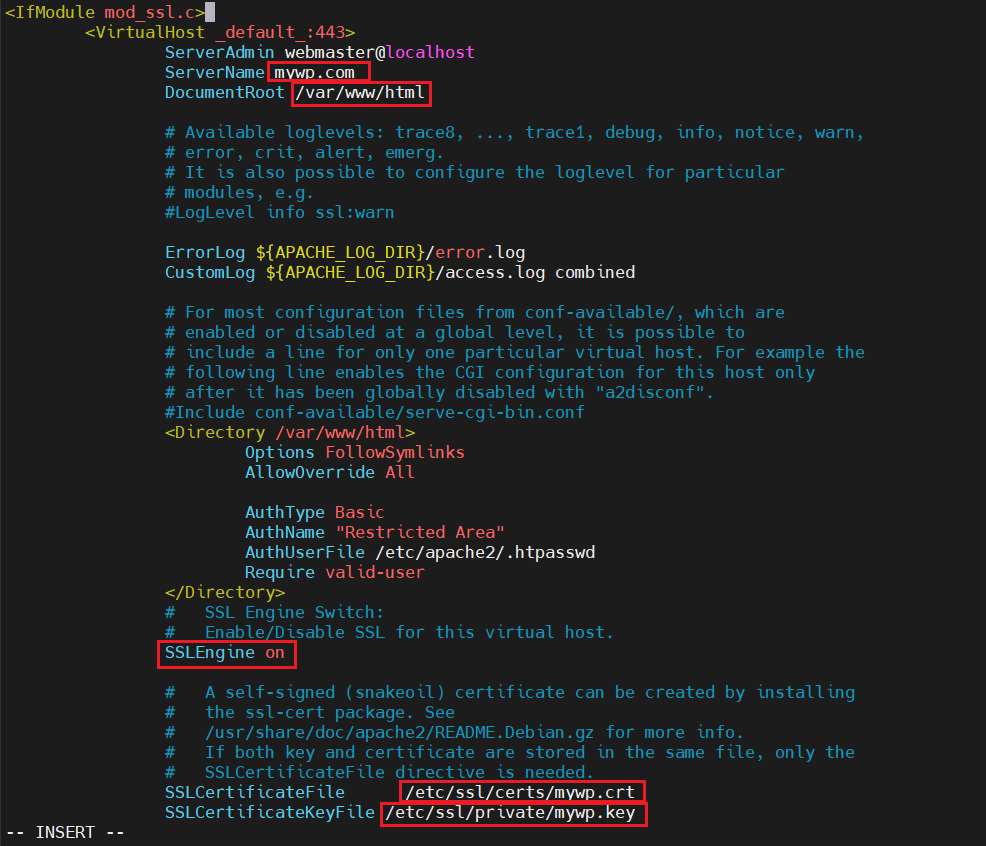
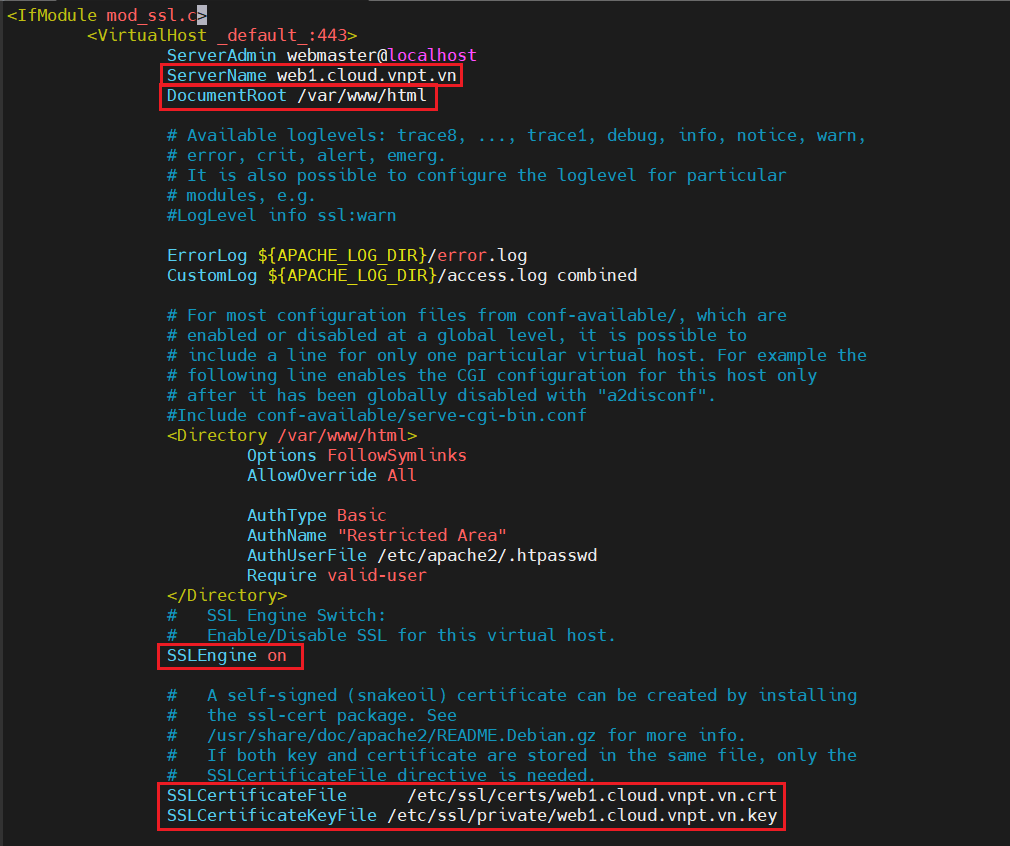
add domain self signed

Changed region(s): [[0.0, 0.0, 0.8824, 0.9835], [0.0304, 0.9527, 0.0913, 1.0]]

diff --git a/LuongVN/WORDPRESS/Config Self Signed Trusted WP/6.Self_Signed_Trusted_On_Ubuntu.md b/LuongVN/WORDPRESS/Config Self Signed Trusted WP/6.Self_Signed_Trusted_On_Ubuntu.md
@@ -1,14 +1,25 @@
-# Cấu Hình Self-Signed WordPress Ubuntu
-## 1. Tạo Self-Signed Certificate
+# Cấu Hình Domain Self-Signed WordPress Ubuntu
 
-  ```bash
-  openssl req -x509 -nodes -newkey rsa:2048 \
-  -keyout /etc/ssl/private/mywp.key \
-  -out /etc/ssl/certs/mywp.crt \
-  -days 365 \
-  -subj "/CN=mywp.com" \
-  -addext "subjectAltName=DNS:mywp.com"
-  ```
+## Yêu cầu
+- Ta truy cập được vào trang WP với đường dẫn: `https://web1.cloud.vnpt.vn` mà không hiện `not secure`
+- Không dùng địa chỉ IP
+
+## Thực hiện
+
+### 1. Tạo Self-Signed Certificate
+
+Ta dùng câu lệnh sau đây để gen cert cho trang WP: 
+
+```bash
+openssl req -x509 -nodes -newkey rsa:2048 \
+-keyout /etc/ssl/private/web1.cloud.vnpt.vn.key \
+-out /etc/ssl/certs/web1.cloud.vnpt.vn.crt \
+-days 365 \
+-subj "/CN=web1.cloud.vnpt.vn" \
+-addext "subjectAltName=DNS:web1.cloud.vnpt.vn"
+```
+
+Giải thích các trường:
 
   - `-x509`: tạo chứng chỉ X.509 (thường dùng cho SSL/TLS).
 
@@ -20,29 +31,72 @@
 
   - `-keyout` và `-out`: đường dẫn lưu key và certificate.
 
-  - `/CN=bimmie.com`: Common Name = tên domain của bạn.
-  - `-addext "subjectAltName=DNS:mywp.com,IP:192.168.70.101"`: SAN của cert này: 
-    - DNS: `mywp.com`
+  - `/CN=mywp.com`: Common Name = tên domain của bạn.
+  - `-addext "subjectAltName=DNS:mywp.com"`: SAN của cert này: 
 
-## 2. Import Certificate vào hệ thống 
+**Một số lưu ý**:
+- `domain` khi ta truy cập phải khới với `Common Name` khi ta tạo cert
+- Khi gen cert ta bắt buộc phải có SAN, lý do là từ năm 2017 tất cả browser hiện đại(Chrome, Firefox, Edge, Safari) đã không còn dùng CN để kiểm tra hostname của certificate, bắt buộc phải kiểm tra SAN. Điều này nằm trong chuẩn: `RFC 2018`
+- Khi ta thêm SAN, ví dụ: `-addext "subjectAltName=DNS:web1.cloud.vnpt.vn"`, lúc này cert chứa `SAN = DNS:web1.cloud.vnpt.vn (cái browser thực sự dùng)` Browser kiểm tra SAN:
+
+  ```bash
+  Hostname: web1.cloud.vnpt.vn
+  SAN list: DNS:web1.cloud.vnpt.vn
+  ```
+
+  -> MATCH -> Browser Trust
+
+### 2. Import Certificate vào hệ thống 
 
 ```bash
 cp /etc/ssl/certs/mywp.crt /usr/local/share/ca-certificates/
 sudo update-ca-certificates
 ```
 
-- Copy certificate vào thư mục CA của Ubuntu.
+Copy certificate vào thư mục CA của Ubuntu.
 
-- `update-ca-certificates` sẽ thêm certificate vào trusted store của hệ thống.
+`update-ca-certificates` sẽ thêm certificate vào trusted store của hệ thống.
 
-- Sau bước này, các trình duyệt trên hệ thống (hoặc các tool như wget, curl) sẽ tin tưởng chứng chỉ này.
+Sau bước này, các trình duyệt trên hệ thống (hoặc các tool như wget, curl) sẽ tin tưởng chứng chỉ này.
 
-## 3. Cấu hình Apache
-- Vào file config ssl của trang WP của bạn(mặc định: `/etc/apache2/sites-available/default-ssl.conf`)
+### 3. Thêm domain vào `/etc/hosts`
+
+Ta sẽ thêm domain `web1.cloud.vnpt.vn` với IP là `192.168.70.101` để khi gõ `https://web1.cloud.vnpt.vn` máy sẽ truy cập server WordPress
+
+![alt text](../images/self_signed_10.png)
+
+### 4. Cấu hình Apache
+Vào file config ssl của trang WP của bạn(mặc định: `/etc/apache2/sites-available/default-ssl.conf`, hoặc trang mà bạn đã tạo riêng)
 
   ![alt text](../images/self_signed_01.png)
+
+Ta cần lưu ý cấu hình đúng với các trường được tô đỏ:
+- `ServerName`: phải đúng với tên domain
+- `DocumentRoot`: đúng với trang WordPress
+- `SSLEngine`: kích hoạt SSL
+- `SSLCertificateFile`: Đường dẫn đến file cert mà ta đã gen
+- `SSLCertificateKeyFile`: Đường dẫn đến file chứa key mà ta đã gen
   
-## 4. Bật module SSL & site SSL
+### 5. Chỉnh sửa file `wp-config.php`
+Nếu ta không chỉnh sửa file này, khi truy cập vào các config của trang WordPress sẽ gặp lỗi, Ví dụ khi ta truy cập: `https://web1.cloud.vnpt.vn/wp-admin`
+
+```bash
+ERROR: certificate common name 'web1.cloud.vnpt.vn' doesn't match requested host name '192.168.70.101'.
+```
+
+Nguyên nhân là do chứng chỉ SSL của website là cho domain `web1.cloud.vnpt.vn` nhưng server lại redirect sang địa chỉ IP `192.168.70.101`
+
+```bash
+https://web1.cloud.vnpt.vn/wp-admin  →  https://192.168.70.101/wp-login.php
+```
+
+Để sửa, ta có thể chỉnh sửa URL của WordPress để nó không redirect sang IP bằng cách chỉnh sửa trực tiếp trong `wp-config.php`
+
+![alt text](../images/self_signed_09.png)
+
+Bây giờ khi bạn gõ `https://web1.cloud.vnpt.vn/wp-admin` trình duyệt sẽ hiển thị: `https://web1.cloud.vnpt.vn/wp-admin` không tự đổi thành `https://192.168.70.101`
+
+### 6. Bật module SSL & site SSL
 
 ```bash
 sudo a2enmod ssl
@@ -50,40 +104,53 @@ sudo a2ensite default-ssl.conf
 sudo systemctl restart apache2
 ``` 
 
-## 5. Kiểm tra
-### Trên Server
-  
+### 7. Kiểm tra
+#### 7.1. Trên Server
+Ta sẽ thử tải dữ liệu của trang `https://web1.cloud.vnpt.vn/wp-admin` về máy bằng lệnh `wget`
+
+Lưu ý: Khi cấu hình `apache2` ta đã cấu hình basic authen cho trang WP nên khi `wget` ta phải đi kèm với `--user` và `--password` để có thể truy cập:
+
   ![alt text](../images/self_signed_04.png)
 
-### Trên mấy window
-- Tạo 1 folder để lưu file `.crt` từ ubuntu, sau đó mở trên terminal và dùng `scp` để lấy file `.crt` về:
+Như vậy hệ thống đã trust cho trang website này
+
+#### 7.2.Trên máy window
+Đầu tiên ta tạo 1 folder để lưu file `.crt` từ ubuntu, sau đó mở trên terminal và dùng `scp` để lấy file `.crt` về:
 
   ```bash
-  scp root@192.168.70.101:/etc/ssl/certs/mywp.crt .
+  scp root@192.168.70.101:/etc/ssl/certs/web1.cloud.vnpt.vn.crt .
   ```
 
-- Import Certificate vào Trusted Root CA:
+![alt text](../images/self_signed_11.png)
 
-  - Bước 1: Double-click `mywp.crt`
+Ta đã thấy có file `web1.cloud.vnpt.vn.crt` là file cert mà ta đã gen ở server
 
-    ![alt text](../images/self_sigend_05.png)
+Sau đó, Import Certificate vào `Trusted Root CA` trên máy Window
 
-  - Bước 2: Chọn `Install Certificate`
+- Bước 1: Double-click `web1.cloud.vnpt.vn.crt`
 
-    ![alt text](../images/self_signed_06.png)
+  ![alt text](../images/self_sigend_05.png)
 
-  - Bước 3: Chọn: `Local Machine` `Place all certificates in:→ Trusted Root Certification Authorities`
+- Bước 2: Chọn `Install Certificate`
 
-    ![alt text](../images/self_signed_07.png)
+  ![alt text](../images/self_signed_06.png)
 
-  - Bước 4: Chọn `next` -> `finish`
+- Bước 3: Chọn: `Local Machine` sau đó chọn `Place all certificates in:→ Trusted Root Certification Authorities`
 
-    ![alt text](../images/self_signed_08.png)
+  ![alt text](../images/self_signed_07.png)
 
+- Bước 4: Chọn `next` -> `finish`
 
-openssl req -x509 -nodes -newkey rsa:2048 \
--keyout /etc/ssl/private/web1.cloud.vnpt.vn.key \
--out /etc/ssl/certs/web1.cloud.vnpt.vn.crt \
--days 365 \
--subj "/CN=web1.cloud.vnpt.vn" \
--addext "subjectAltName=DNS:web1.cloud.vnpt.vn"
+  ![alt text](../images/self_signed_08.png)
+
+Cuối cùng ta chỉnh sửa file `host` trên máy window và truy cập thử vào trang WP: `https://web1.cloud.vnpt.vn`
+
+![alt text](../images/self_signed_12.png)
+
+![alt text](../images/self_signed_13.png)
+
+Ta cũng có thể truy cập `https://web1.cloud.vnpt.vn/wp-admin` để xem hệ thống có redirect sang IP không?
+
+![alt text](../images/self_signed_14.png)
+
+Như vậy Website đã không Redirect sang địa chỉ IP
